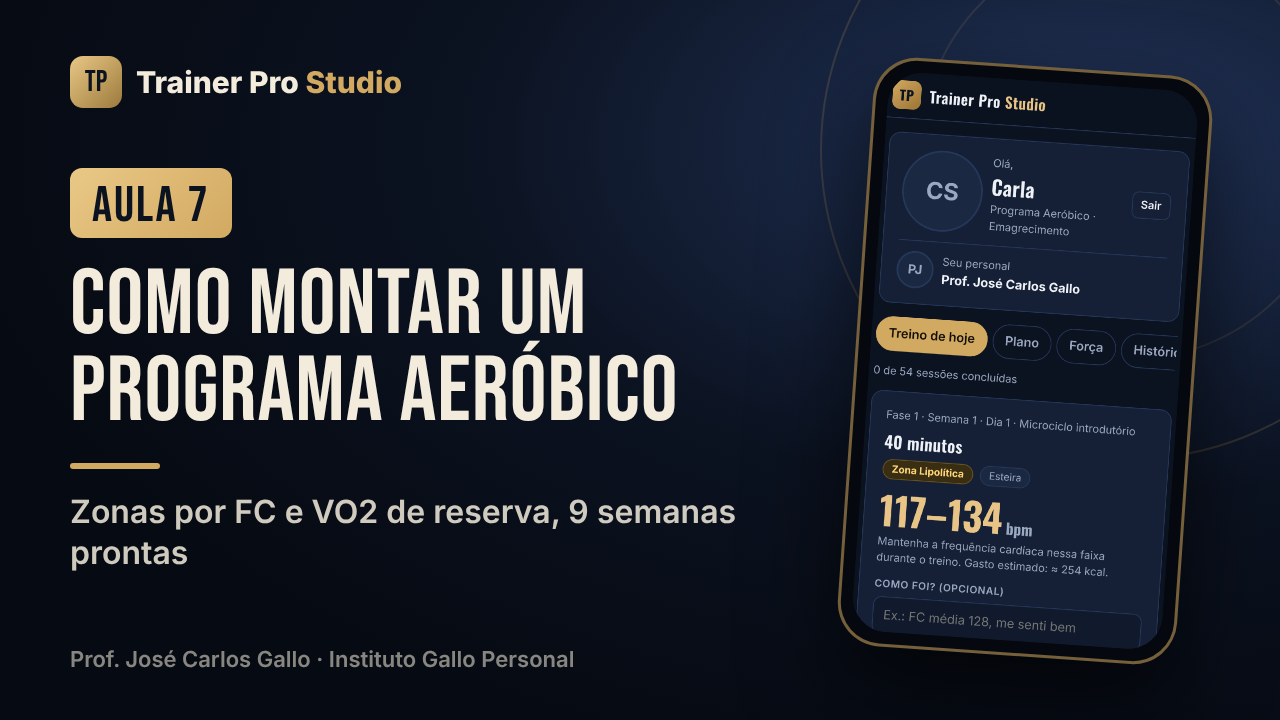
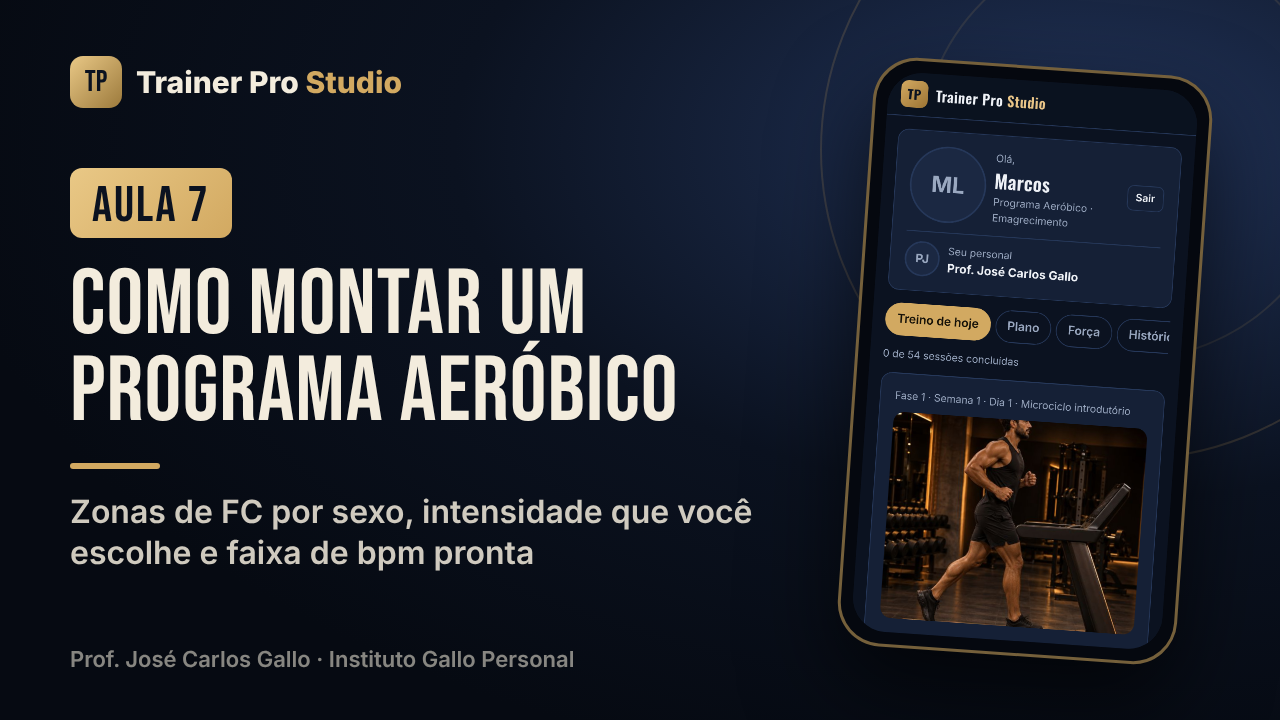
Aulas: capas 7 v2, 8, 9 e 10, telas do app para a edição e ajustes nos roteiros
Claude-Session: https://claude.ai/code/session_01Fad2cobrCwMJvKQEki36qA

diff --git a/app-programas/divulgacao/aulas/KIWIFY-organizacao-das-aulas.md b/app-programas/divulgacao/aulas/KIWIFY-organizacao-das-aulas.md
@@ -1,41 +1,41 @@
 # Área de membros Kiwify — Trainer Pro Studio
 
-Ordem de exibição na Kiwify. O número no título é o da Kiwify; o arquivo de origem vem entre parênteses.
+Ordem de exibição na Kiwify, por módulo. O número da aula é o mesmo da capa (pasta `capas/`).
 Descrições com no máximo 165 caracteres.
 
 ## Módulo 1 — Comece aqui
-1. **Boas-vindas ao Trainer Pro Studio** (aula0-boas-vindas-horizontal.mp4)
-   O que o app faz por você e pelo seu aluno, e como tirar o máximo dele desde o primeiro dia.
-2. **Primeiro acesso** (aula1-primeiro-acesso.mp4)
-   Como entrar no app, configurar seu perfil e deixar sua marca pronta para os programas.
-3. **Material: Guia rápido em PDF** (guia-rapido-trainer-pro-studio.pdf)
-   O passo a passo do app em poucas páginas, para consultar sempre que precisar.
+- **Aula 0 — Boas-vindas** · vídeo `aula0-boas-vindas-horizontal.mp4` · capa `capa-aula0-boas-vindas.png`
+  O que o app faz por você e pelo seu aluno, e como tirar o máximo dele desde o primeiro dia.
+- **Aula 1 — Primeiro acesso e seu perfil** · `aula1-primeiro-acesso.mp4` · `capa-aula1-primeiro-acesso.png`
+  Entre no app e cadastre nome, CREF e foto, que aparecem na capa de todos os programas.
+- **Material — Guia Rápido em PDF** · `guia-rapido-trainer-pro-studio.pdf` · `capa-material-guia-rapido.png`
+  O passo a passo do app em poucas páginas, para consultar sempre que precisar.
 
 ## Módulo 2 — Programas de musculação
-4. **Seu primeiro programa** (aula2-primeiro-programa.mp4)
-   Cadastre o aluno, deixe o app filtrar os 69 programas e entregue um plano profissional em minutos.
-5. **Personalize o programa** (aula3-personalizar.mp4)
-   Edite exercícios, séries e cargas, salve como seu modelo e reaproveite com outros alunos.
-6. **Libere o acesso do aluno** (aula4-liberar-acesso.mp4)
-   Gere o código, envie pelo WhatsApp e controle quando o acesso começa e termina.
-7. **O que o aluno vê** (aula5-o-que-o-aluno-ve.mp4)
-   A experiência do aluno no celular: treino do dia, fotos dos exercícios e registro de cargas.
+- **Aula 2 — Seu primeiro programa em 10 minutos** · `aula2-primeiro-programa.mp4` · `capa-aula2-primeiro-programa.png`
+  Cadastre o aluno, deixe o app filtrar os 69 programas e entregue um plano profissional em minutos.
+- **Aula 3 — Personalize e salve seus modelos** · `aula3-personalizar.mp4` · `capa-aula3-personalizar.png`
+  Ajuste treinos e exercícios, salve como seu modelo e reaproveite com outros alunos.
+- **Aula 4 — Libere o acesso do aluno** · `aula4-liberar-acesso.mp4` · `capa-aula4-liberar-acesso.png`
+  Gere o código, envie pelo WhatsApp e controle quando o acesso começa e termina.
+- **Aula 5 — O que o seu aluno vê** · `aula5-o-que-o-aluno-ve.mp4` · `capa-aula5-o-que-o-aluno-ve.png`
+  Treino no celular, fotos dos exercícios, registro de cargas e histórico.
 
 ## Módulo 3 — Avaliação, evolução e renovação
-8. **Avaliação física dentro do programa** (aula8 — gravar)
-   Medidas, % de gordura por perimetria ou Pollock e resultados na hora, com guia de medidas em foto.
-9. **Reavaliação e relatório de evolução** (aula9 — gravar)
-   Compare avaliações, mostre o gráfico e entregue o relatório em PDF que vende a renovação.
-10. **Acompanhe e renove** (aula6-acompanhar-e-renovar.mp4)
-    Acompanhe o histórico de treinos do aluno e saiba a hora certa de renovar o ciclo.
+- **Aula 8 — Avaliação física dentro do programa** · gravar · `capa-aula8-avaliacao-fisica.png`
+  Medidas, % de gordura por perimetria ou Pollock e resultados na hora, com guia de medidas em foto.
+- **Aula 9 — Reavaliação e relatório de evolução** · gravar · `capa-aula9-reavaliacao-relatorio.png`
+  Compare avaliações, mostre o gráfico e entregue o relatório em PDF que vende a renovação.
+- **Aula 6 — Acompanhe e renove** · `aula6-acompanhar-e-renovar.mp4` · `capa-aula6-acompanhar-renovar.png`
+  Acompanhe o histórico de treinos do aluno e saiba a hora certa de renovar o ciclo.
 
 ## Módulo 4 — Programa aeróbico
-11. **Como montar um programa aeróbico** (aula7 versão 2 — regravar)
-    9 semanas em 5 fases, zonas de FC por sexo com a intensidade que você escolhe e faixa de bpm pronta.
-12. **Testes de VO2 máximo no app** (aula10 — gravar)
-    Uth, banco, Rockport, Cooper e questionário de Duke: quando usar cada um e como aplicar.
+- **Aula 7 — Como montar um Programa Aeróbico** · regravar (versão 2) · `capa-aula7-programa-aerobico.png` (nova)
+  9 semanas em 5 fases, zonas de FC por sexo com a intensidade que você escolhe e faixa de bpm pronta.
+- **Aula 10 — Testes de VO2 máximo no app** · gravar · `capa-aula10-testes-vo2.png`
+  Uth, banco, Rockport, Cooper e questionário de Duke: quando usar cada um e como aplicar.
 
 ## Ações na Kiwify
-- Substituir o vídeo da aula 7 atual pela versão 2 quando estiver pronta.
-- Criar o Módulo 3 e mover "Acompanhe e renove" para ele.
-- Criar o Módulo 4 com a aula 7 v2 e a aula 10.
+1. Criar os módulos 3 e 4 e mover a Aula 6 para o módulo 3.
+2. Trocar a capa da Aula 7 agora; trocar o vídeo quando a versão 2 estiver pronta.
+3. Subir as aulas 8, 9 e 10 com as capas já prontas assim que os vídeos ficarem prontos.

diff --git a/app-programas/divulgacao/aulas/aula7-programa-aerobico-v2-roteiro.md b/app-programas/divulgacao/aulas/aula7-programa-aerobico-v2-roteiro.md
@@ -19,7 +19,7 @@ A primeira aba é a avaliação física. Digite peso, altura e circunferências.
 [TELA] Aba "1. Avaliação física" com resultados e o guia de medidas aberto.
 
 ## Bloco 4 — Hemodinâmica (1:05–1:50)
-Na aba hemodinâmica, informe a pressão arterial e a frequência cardíaca de repouso. O app já classifica cada valor: pressão normal, elevada ou hipertensão, e a FC de repouso de acordo com a idade.
+Na aba hemodinâmica, informe a pressão arterial e a frequência cardíaca de repouso. O app já classifica cada valor: pressão ótima, normal, pré-hipertensão ou hipertensão, e a FC de repouso de acordo com a idade.
 A frequência cardíaca máxima já vem calculada pelo sexo: duzentos e vinte menos a idade para homens e duzentos e vinte e seis menos a idade para mulheres, com variação de mais ou menos seis batimentos. Se você tiver a FC máxima medida em teste, digite no campo e o app passa a usar a sua.
 Para o VO2 máximo, clique em "calcular VO2 máximo". São cinco opções, do questionário sem esforço até o teste de Cooper. Eu explico cada uma na próxima aula.
 [TELA] Aba "2. Hemodinâmica": classificações coloridas, placeholder da FC máx, botão do VO2.
@@ -52,7 +52,7 @@ Na tela inicial, clique em programa aeróbico. Escolha o aluno e o objetivo: ema
 
 A primeira aba é a avaliação física. Digite peso, altura e circunferências. O app calcula na hora o IMC, o percentual de gordura, a massa magra, a gordura excedente e a carência muscular. Em cada medida tem o botão "como medir", com foto e passo a passo. E tudo o que você registrar aqui aparece também na avaliação do programa de musculação do mesmo aluno.
 
-Na aba hemodinâmica, informe a pressão arterial e a frequência cardíaca de repouso. O app já classifica cada valor: pressão normal, elevada ou hipertensão, e a FC de repouso de acordo com a idade. A frequência cardíaca máxima já vem calculada pelo sexo: duzentos e vinte menos a idade para homens e duzentos e vinte e seis menos a idade para mulheres, com variação de mais ou menos seis batimentos. Se você tiver a FC máxima medida em teste, digite no campo e o app passa a usar a sua. Para o VO2 máximo, clique em "calcular VO2 máximo". São cinco opções, do questionário sem esforço até o teste de Cooper. Eu explico cada uma na próxima aula.
+Na aba hemodinâmica, informe a pressão arterial e a frequência cardíaca de repouso. O app já classifica cada valor: pressão ótima, normal, pré-hipertensão ou hipertensão, e a FC de repouso de acordo com a idade. A frequência cardíaca máxima já vem calculada pelo sexo: duzentos e vinte menos a idade para homens e duzentos e vinte e seis menos a idade para mulheres, com variação de mais ou menos seis batimentos. Se você tiver a FC máxima medida em teste, digite no campo e o app passa a usar a sua. Para o VO2 máximo, clique em "calcular VO2 máximo". São cinco opções, do questionário sem esforço até o teste de Cooper. Eu explico cada uma na próxima aula.
 
 Na aba exames, registre colesterol, triglicerídeos, glicemia, hemoglobina glicada e outros. Cada valor recebe a classificação: desejável, limítrofe ou alto. Na aba exercício físico, escolha a modalidade, como caminhada, corrida, bike ou natação. Aparece a foto da modalidade, com mulher ou homem conforme o sexo do aluno, e o resumo do programa.
 

diff --git a/app-programas/divulgacao/aulas/aula8-avaliacao-fisica-roteiro.md b/app-programas/divulgacao/aulas/aula8-avaliacao-fisica-roteiro.md
@@ -24,7 +24,7 @@ Se você mede dobras cutâneas, escolha Pollock três dobras ou Pollock sete dob
 
 ## Bloco 5 — Resultados na hora (2:25–3:15)
 Enquanto você digita, os resultados aparecem: IMC, percentual de gordura, massa gorda, massa magra, relação cintura-quadril, gordura excedente e carência muscular.
-Exemplo: aluno de quarenta anos, oitenta quilos, trinta e cinco por cento de gordura. Ele tem nove vírgula seis quilos de gordura excedente e seis vírgula dois quilos de carência muscular. Esse é o número que você mostra ao aluno. Ele entende onde está e onde precisa chegar.
+Exemplo: aluno de quarenta anos, oitenta quilos e um metro e setenta e cinco. Pela perimetria, ele tem trinta e quatro vírgula cinco por cento de gordura, quinze vírgula seis quilos de gordura excedente e oito vírgula um quilos de carência muscular. Esse é o número que você mostra ao aluno. Ele entende onde está e onde precisa chegar.
 Se esse aluno também tem programa aeróbico, as avaliações de lá já aparecem aqui. Você não digita nada duas vezes.
 [TELA] Painel "3. Resultados" com os números preenchidos.
 
@@ -44,6 +44,6 @@ Clique em "avaliação inicial". Primeiro vêm o peso, a altura e as circunferê
 
 Logo abaixo você escolhe o método do percentual de gordura. O padrão é a perimetria automática pelo IMC: acima de vinte e nove vírgula nove, o app usa a equação de Weltman; até vinte e nove vírgula nove, usa Tran e Weltman. Se preferir, fixe uma das duas para qualquer IMC. Se você mede dobras cutâneas, escolha Pollock três dobras ou Pollock sete dobras e digite as dobras. E se o aluno fez bioimpedância, escolha "informar o percentual" e digite o valor.
 
-Enquanto você digita, os resultados aparecem: IMC, percentual de gordura, massa gorda, massa magra, relação cintura-quadril, gordura excedente e carência muscular. Exemplo: aluno de quarenta anos, oitenta quilos, trinta e cinco por cento de gordura. Ele tem nove vírgula seis quilos de gordura excedente e seis vírgula dois quilos de carência muscular. Esse é o número que você mostra ao aluno. Ele entende onde está e onde precisa chegar. Se esse aluno também tem programa aeróbico, as avaliações de lá já aparecem aqui. Você não digita nada duas vezes.
+Enquanto você digita, os resultados aparecem: IMC, percentual de gordura, massa gorda, massa magra, relação cintura-quadril, gordura excedente e carência muscular. Exemplo: aluno de quarenta anos, oitenta quilos e um metro e setenta e cinco. Pela perimetria, ele tem trinta e quatro vírgula cinco por cento de gordura, quinze vírgula seis quilos de gordura excedente e oito vírgula um quilos de carência muscular. Esse é o número que você mostra ao aluno. Ele entende onde está e onde precisa chegar. Se esse aluno também tem programa aeróbico, as avaliações de lá já aparecem aqui. Você não digita nada duas vezes.
 
 Clique em salvar. A avaliação fica guardada no histórico do aluno, com a data. Na próxima aula eu te mostro a parte que mais ajuda a renovar o plano: a reavaliação, o comparativo e o relatório de evolução em PDF. Faça agora a avaliação do seu próximo aluno. Seu aluno vai sentir a diferença.
